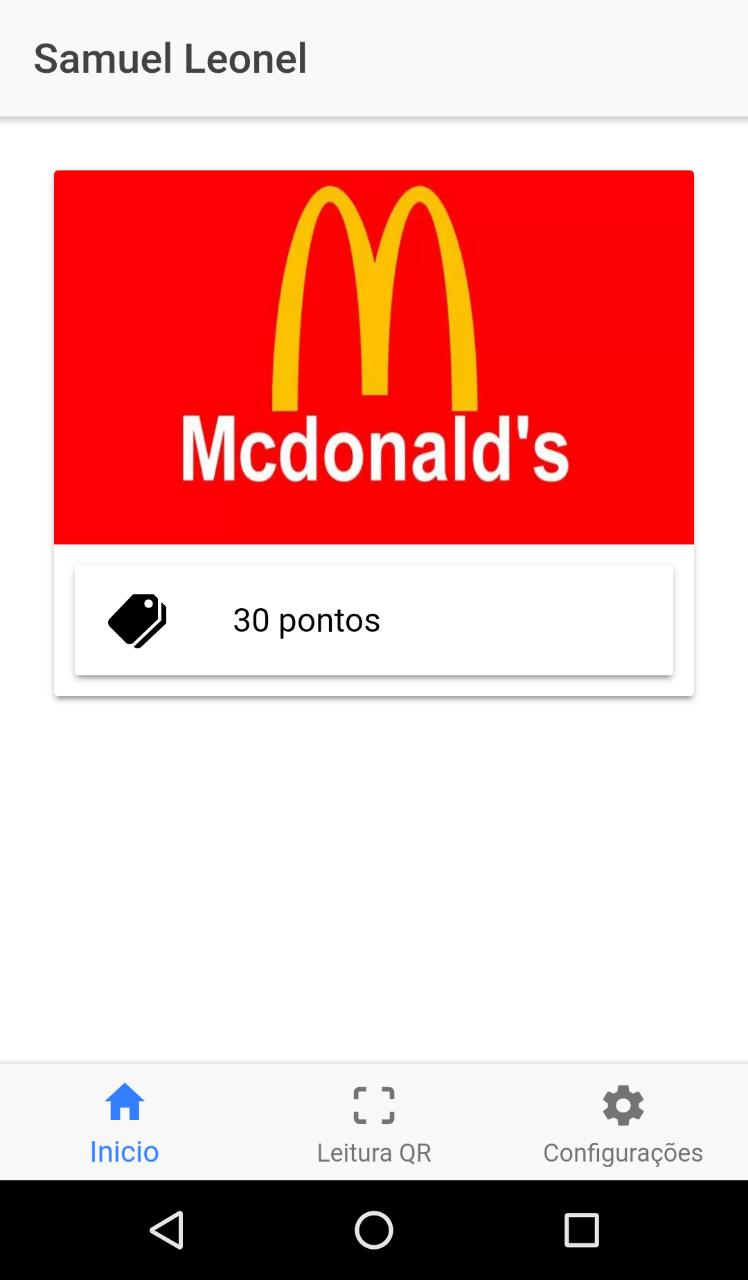
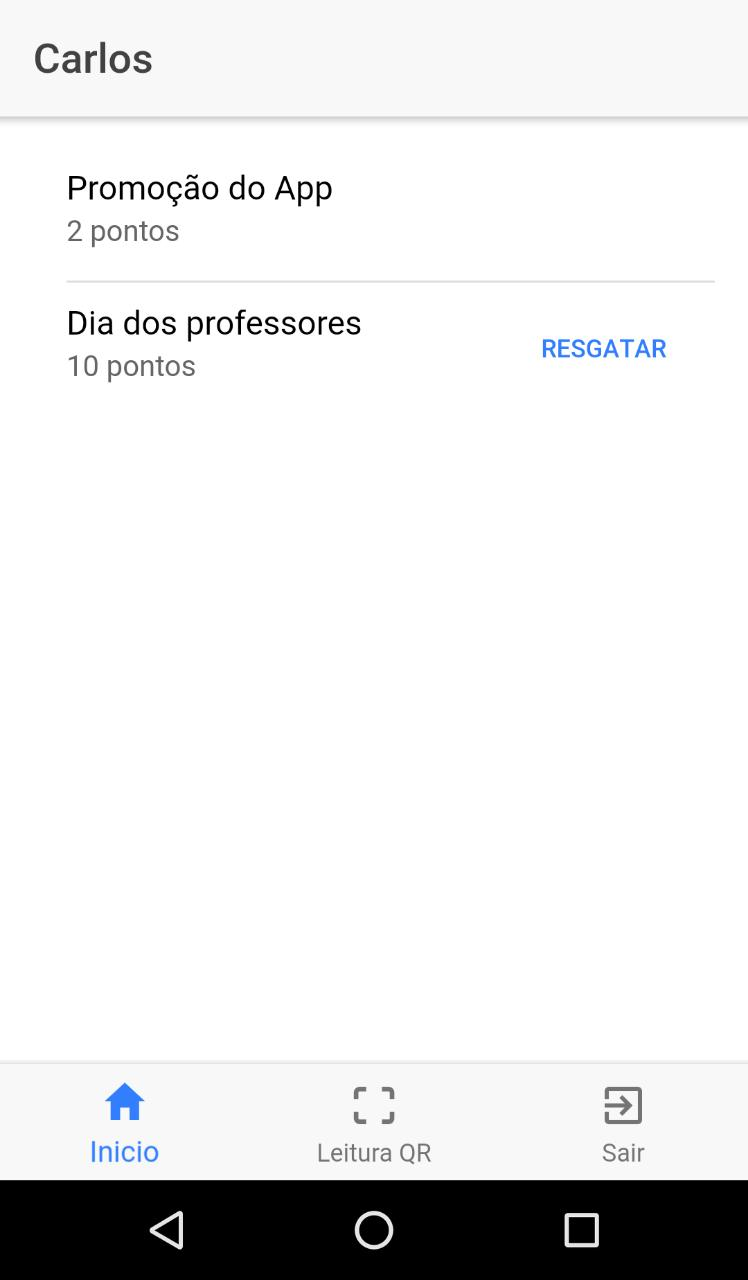
Quase pronto

Changed region(s): [[0.0615, 0.125, 0.9532, 0.5625], [0.0307, 0.0312, 0.4305, 0.0625], [0.738, 0.8438, 0.9225, 0.9062]]

diff --git a/src/pages/tabs/tabs.component.ts b/src/pages/tabs/tabs.component.ts
@@ -3,6 +3,8 @@ import { InicioUsuario } from '../inicio-usuario/inicio-usuario';
 import { Configuracoes } from '../configuracoes/configuracoes.component';
 import { LerQrCode } from '../ler-qrcode/ler-qrcode';
 import { BarcodeScanner } from '@ionic-native/barcode-scanner';
+import { AngularFirestore } from 'angularfire2/firestore';
+import { AngularFireAuth } from 'angularfire2/auth';
 
 
 @Component({
@@ -15,11 +17,59 @@ export class TabsPage {
   scannedCode = null;
 
 
-  constructor(public barcodeScanner: BarcodeScanner) { }
+  constructor(public barcodeScanner: BarcodeScanner,
+    public db: AngularFirestore,
+    public afAuth: AngularFireAuth) { }
 
-  scanCode(){
-    this.barcodeScanner.scan().then(barcodeData =>{
-      this.scannedCode = barcodeData.text;
-    })
+  public logout(): void {
+    this.afAuth.auth.signOut();
+  }
+  scanCode() {
+
+    let stop = false;
+
+    if (stop == false) {
+      this.barcodeScanner.scan().then(barcodeData => {
+        this.scannedCode = barcodeData.text;
+        let uid = this.afAuth.auth.currentUser.uid;
+
+        let subPromo = this.db.collection("promocoes").doc<any>(barcodeData.text).valueChanges().subscribe((dados) => {
+
+          let subPart = this.db.collection("usuarios").doc(uid).collection("participacoes").doc<any>(barcodeData.text).valueChanges().subscribe((premiacao) => {
+            console.log('versão nova');
+
+            let _dados = dados;
+            let _premiacao = premiacao;
+
+            subPart.unsubscribe();
+            subPromo.unsubscribe();
+
+            if (stop == false) {
+              if (_premiacao == null) {
+
+                this.db.collection("usuarios").doc(uid).collection("participacoes").doc(barcodeData.text).set({
+                  id: barcodeData.text,
+                  pontos: 1,
+                  pontos_totais: _dados.pontos,
+                  nome: _dados.nome,
+                  nomeEmpresa: _dados.nomeEmpresa
+                }).then(() => {
+                  stop = true;
+                })
+              }
+              else {
+                let novos_pontos = _premiacao.pontos + 1;
+                this.db.collection("usuarios").doc(uid).collection("participacoes").doc(barcodeData.text).update({
+                  pontos: novos_pontos
+                }).then(() => {
+                  stop = true;
+                })
+              }
+            }
+          })
+
+        })
+      })
+    }
   }
 }

diff --git a/src/pages/criar-promo/criar-promo.ts b/src/pages/criar-promo/criar-promo.ts
@@ -15,18 +15,22 @@ export class CriarPromo {
   public lista: Observable<CardPromo[]>;
   public cardPromo = {}
   public dataFimPromo:any;
+  public empresa:any = {};
   constructor(private navCtrl: NavController,
               private db: AngularFirestore,
               private afAuth: AngularFireAuth,
-              private alertCtrl: AlertController) { 
+              private alertCtrl: AlertController) {
 
       let uid = afAuth.auth.currentUser.uid;
+
+      db.collection('usuarios').doc(uid).valueChanges().subscribe((empresa) => { this.empresa = empresa; });
+
       this.lista = db.collection<CardPromo>('listCardPromo', ref => ref.where('uid','==',uid)).valueChanges();
-            
+
       db.collection('promocoes').doc(uid).valueChanges().subscribe((cardPromo)=> {
         this.cardPromo = cardPromo;
-      })      
-            
+      })
+
 }
 
 
@@ -39,9 +43,10 @@ export class CriarPromo {
 
       this.db.collection("promocoes").add({
          nome: nomeCard,
-         pontos:pontos,
+         pontos: parseInt(pontos),
          dataFimPromo:dataFimPromo,
-         empresa: empresa
+         empresa: empresa,
+         nomeEmpresa: this.empresa.nome
        })
        .then(ref =>{
          this.db.collection("promocoes").doc(ref.id).update({id:ref.id})
@@ -51,7 +56,7 @@ export class CriarPromo {
            title:"Erro no registro",
            subTitle: error.message,
            buttons: ["Ok"]
-           
+
          }).present();
        })
        this.navCtrl.push(InicioEmpresaComponent);

diff --git a/src/pages/inicio-empresa/inicio-empresa.component.ts b/src/pages/inicio-empresa/inicio-empresa.component.ts
@@ -5,27 +5,31 @@ import { Observable } from 'rxjs/Observable';
 import { AngularFirestore } from 'angularfire2/firestore';
 import { Usuario } from '../../models/usuario';
 import { CardPromo } from '../../models/cardPromo';
+import { QrcodePage } from '../qrcode/qrcode';
 
 
 @Component({
   templateUrl: './inicio-empresa.html',
 })
-export class InicioEmpresaComponent  {
-  
+export class InicioEmpresaComponent {
+
   public listaCard: Observable<CardPromo[]>;
   public empresa = {}
-  
-    constructor(public navCtrl: NavController,
-                public db : AngularFirestore,
-                public afAuth:AngularFireAuth,
-                public alertCtrl:AlertController ) { 
-  
-      let uid = afAuth.auth.currentUser.uid;
-      
-      db.collection('usuarios').doc(uid).valueChanges().subscribe((empresa)=> {this.empresa = empresa;});
-  
-      this.listaCard = db.collection<CardPromo>('promocoes', ref => ref.where('empresa','==',uid)).valueChanges();
-    }
 
+  constructor(public navCtrl: NavController,
+    public db: AngularFirestore,
+    public afAuth: AngularFireAuth,
+    public alertCtrl: AlertController) {
 
+    let uid = afAuth.auth.currentUser.uid;
+
+    db.collection('usuarios').doc(uid).valueChanges().subscribe((empresa) => { this.empresa = empresa; });
+
+    this.listaCard = db.collection<CardPromo>('promocoes', ref => ref.where('empresa', '==', uid)).valueChanges();
+  }
+
+  public gerarQRCode(id) {
+    console.log(id);
+      this.navCtrl.push(QrcodePage,{id:id});
+  }
 }

diff --git a/src/pages/inicio-usuario/inicio-usuario.html b/src/pages/inicio-usuario/inicio-usuario.html
@@ -9,23 +9,12 @@
 
 <ion-content padding>
 
-	<ion-card>
-		<!-- LOGO -->
-		<img width="80" height="180" src="https://goo.gl/kZP7Jh">
-
-		<!-- Nome/Endereco-->
+	<ion-list>
 		<ion-item *ngFor="let c of lista | async">
-			<ion-icon name="md-restaurant" item-start large></ion-icon>
-			<h2 *ngIf="c.nome != undefined">{{c.nome}}></h2>
-			<p *ngIf="c.endereco != undefined">{{c.endereco}}</p>
-      <p *ngIf="c.telefone != undefined">{{c.telefone}}</p>
+		  <h2>{{c.nome}}</h2>
+		  <p>{{c.empresa}}</p>
+		  <p>{{c.pontos}} pontos</p>
+		  <button ion-button clear item-end *ngIf="c.pontos >= 10">Resgatar</button>
 		</ion-item>
-		<!--PONTUACAO-->
-		<ion-card>
-			<ion-item>
-				<ion-icon name="pricetags" item-start large></ion-icon>
-				30 pontos
-			</ion-item>
-		</ion-card>
-	</ion-card>
+	  </ion-list>
 </ion-content>

diff --git a/src/pages/inicio-empresa/inicio-empresa.html b/src/pages/inicio-empresa/inicio-empresa.html
@@ -10,11 +10,10 @@
 <ion-content padding>
 	<ion-card *ngFor="let CardPromo of listaCard | async">
 		<ion-item>
-			<h2>Nome da promoção: {{CardPromo.nome}}</h2>
+			<h2>{{CardPromo.nome}}</h2>
 			<p>Pontos necessários: {{CardPromo.pontos}}</p>
 			<p>Fim da promoção: {{CardPromo.dataFimPromo}}</p>
-			<button ion-button icon-left><ion-icon name="barcode"></ion-icon> Criar QrCode</button>
-			<button ion-button icon-left (click)="deletePromo(uid)"><ion-icon name="trash"></ion-icon> Excluir promoção</button>		
+			<button ion-button icon-left (click)="gerarQRCode(CardPromo.id)"><ion-icon name="barcode"></ion-icon> Gerar QrCode</button>
 		</ion-item>
 	</ion-card>
 

diff --git a/src/pages/tabs-empresa/tabs-empresa.ts b/src/pages/tabs-empresa/tabs-empresa.ts
@@ -2,6 +2,7 @@ import { CriarPromo } from './../criar-promo/criar-promo';
 import { Component } from '@angular/core';
 import { Configuracoes } from '../configuracoes/configuracoes.component';
 import { InicioEmpresaComponent } from '../inicio-empresa/inicio-empresa.component';
+import { AngularFireAuth } from 'angularfire2/auth';
 
 
 
@@ -13,10 +14,12 @@ export class TabsEmpresaPage {
 
   tab1Root = InicioEmpresaComponent;
   tab2Root = CriarPromo;
-  tab3Root = Configuracoes;
 
 
-  constructor() {
+  constructor(public afAuth:AngularFireAuth) {
 
+  }
+  public logout():void{
+    this.afAuth.auth.signOut();
   }
 }

diff --git a/src/app/app.module.ts b/src/app/app.module.ts
@@ -27,6 +27,7 @@ import { LerQrCode } from '../pages/ler-qrcode/ler-qrcode';
 // QRcode
 import { NgxQRCodeModule } from "ngx-qrcode2";
 import { BarcodeScanner } from "@ionic-native/barcode-scanner";
+import { QrcodePage } from '../pages/qrcode/qrcode';
 
 
 
@@ -52,7 +53,8 @@ const config = {
     Configuracoes,
     MeusDados,
     CriarPromo,
-    LerQrCode
+    LerQrCode,
+    QrcodePage
     
   ],
   imports: [
@@ -76,7 +78,8 @@ const config = {
     Configuracoes,
     MeusDados,
     CriarPromo,
-    LerQrCode
+    LerQrCode,
+    QrcodePage
     
   ],
   providers: [

diff --git a/src/pages/inicio-usuario/inicio-usuario.ts b/src/pages/inicio-usuario/inicio-usuario.ts
@@ -11,7 +11,7 @@ import { Usuario } from '../../models/usuario';
 })
 export class InicioUsuario {
 
-public lista: Observable<Usuario[]>;
+public lista: Observable<any[]>;
 public user = {}
  
 
@@ -26,9 +26,7 @@ public user = {}
      db.collection('usuarios').doc(uid).valueChanges().subscribe((user)=> {
        this.user= user;
      })
-
-
-
+     this.lista = db.collection('usuarios').doc(uid).collection("participacoes").valueChanges();
+  
   }
-
 }

diff --git a/src/pages/qrcode/qrcode.html b/src/pages/qrcode/qrcode.html
@@ -1,0 +1,22 @@
+<!--
+  Generated template for the QrcodePage page.
+
+  See http://ionicframework.com/docs/components/#navigation for more info on
+  Ionic pages and navigation.
+-->
+<ion-header>
+
+  <ion-navbar>
+    <ion-title>QRCode</ion-title>
+  </ion-navbar>
+
+</ion-header>
+
+
+<ion-content padding>
+  <ion-card>
+    <ion-card-content>
+      <ngx-qrcode [qrc-value]="id"></ngx-qrcode>
+    </ion-card-content>
+  </ion-card>
+</ion-content>

diff --git a/src/pages/tabs/tabs.component.html b/src/pages/tabs/tabs.component.html
@@ -1,5 +1,5 @@
 <ion-tabs>
   <ion-tab [root]="tab1Root" tabTitle="Inicio" tabIcon="md-home"></ion-tab>
   <ion-tab [root]="tab2Root" tabTitle="Leitura QR" tabIcon="md-qr-scanner" (ionSelect)="scanCode()"></ion-tab>
-  <ion-tab [root]="tab3Root" tabTitle="Configurações" tabIcon="md-settings"></ion-tab>
+  <ion-tab [root]="tab3Root" tabTitle="Sair" tabIcon="md-exit" (ionSelect)="logout()"></ion-tab>
 </ion-tabs>

diff --git a/src/pages/tabs-empresa/tabs-empresa.html b/src/pages/tabs-empresa/tabs-empresa.html
@@ -1,6 +1,6 @@
 <ion-tabs>
     <ion-tab [root]="tab1Root" tabTitle="Inicio" tabIcon="md-home"></ion-tab>
     <ion-tab [root]="tab2Root" tabTitle="Criar promoção" tabIcon="md-add-circle"></ion-tab>
-    <ion-tab [root]="tab3Root" tabTitle="Configurações" tabIcon="md-settings"></ion-tab>
+    <ion-tab [root]="tab3Root" tabTitle="Sair" tabIcon="md-exit" (ionSelect)="logout()"></ion-tab>
   </ion-tabs>
   

diff --git a/src/pages/qrcode/qrcode.ts b/src/pages/qrcode/qrcode.ts
@@ -1,0 +1,16 @@
+import { Component } from '@angular/core';
+import { IonicPage, NavController, NavParams } from 'ionic-angular';
+
+@Component({
+  selector: 'page-qrcode',
+  templateUrl: 'qrcode.html',
+})
+export class QrcodePage {
+id:string;
+
+  constructor(public navCtrl: NavController, public navParams: NavParams) {
+    this.id = navParams.get("id")
+    }
+  
+  
+}
